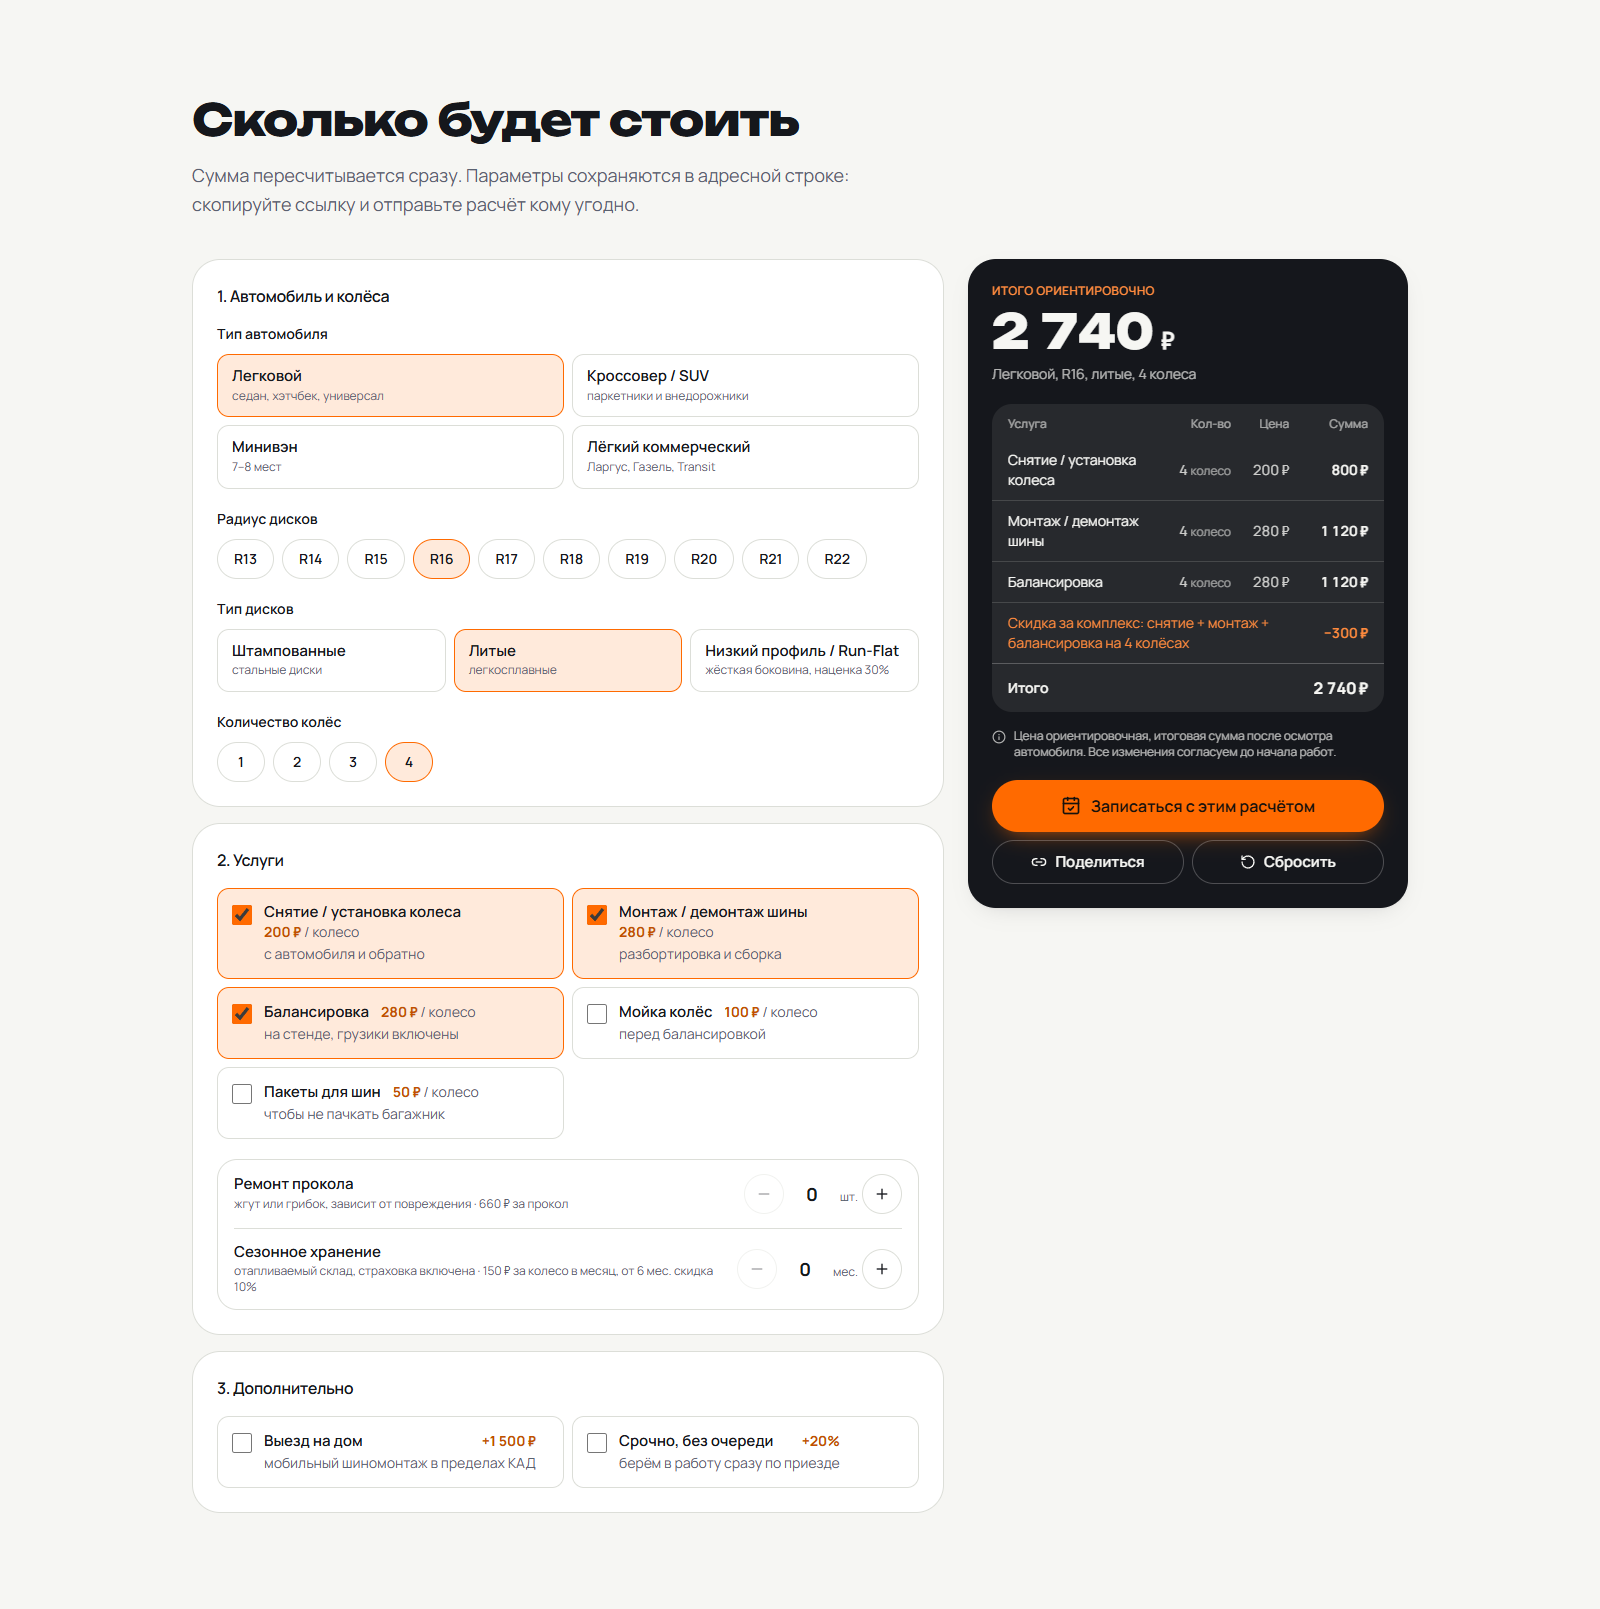
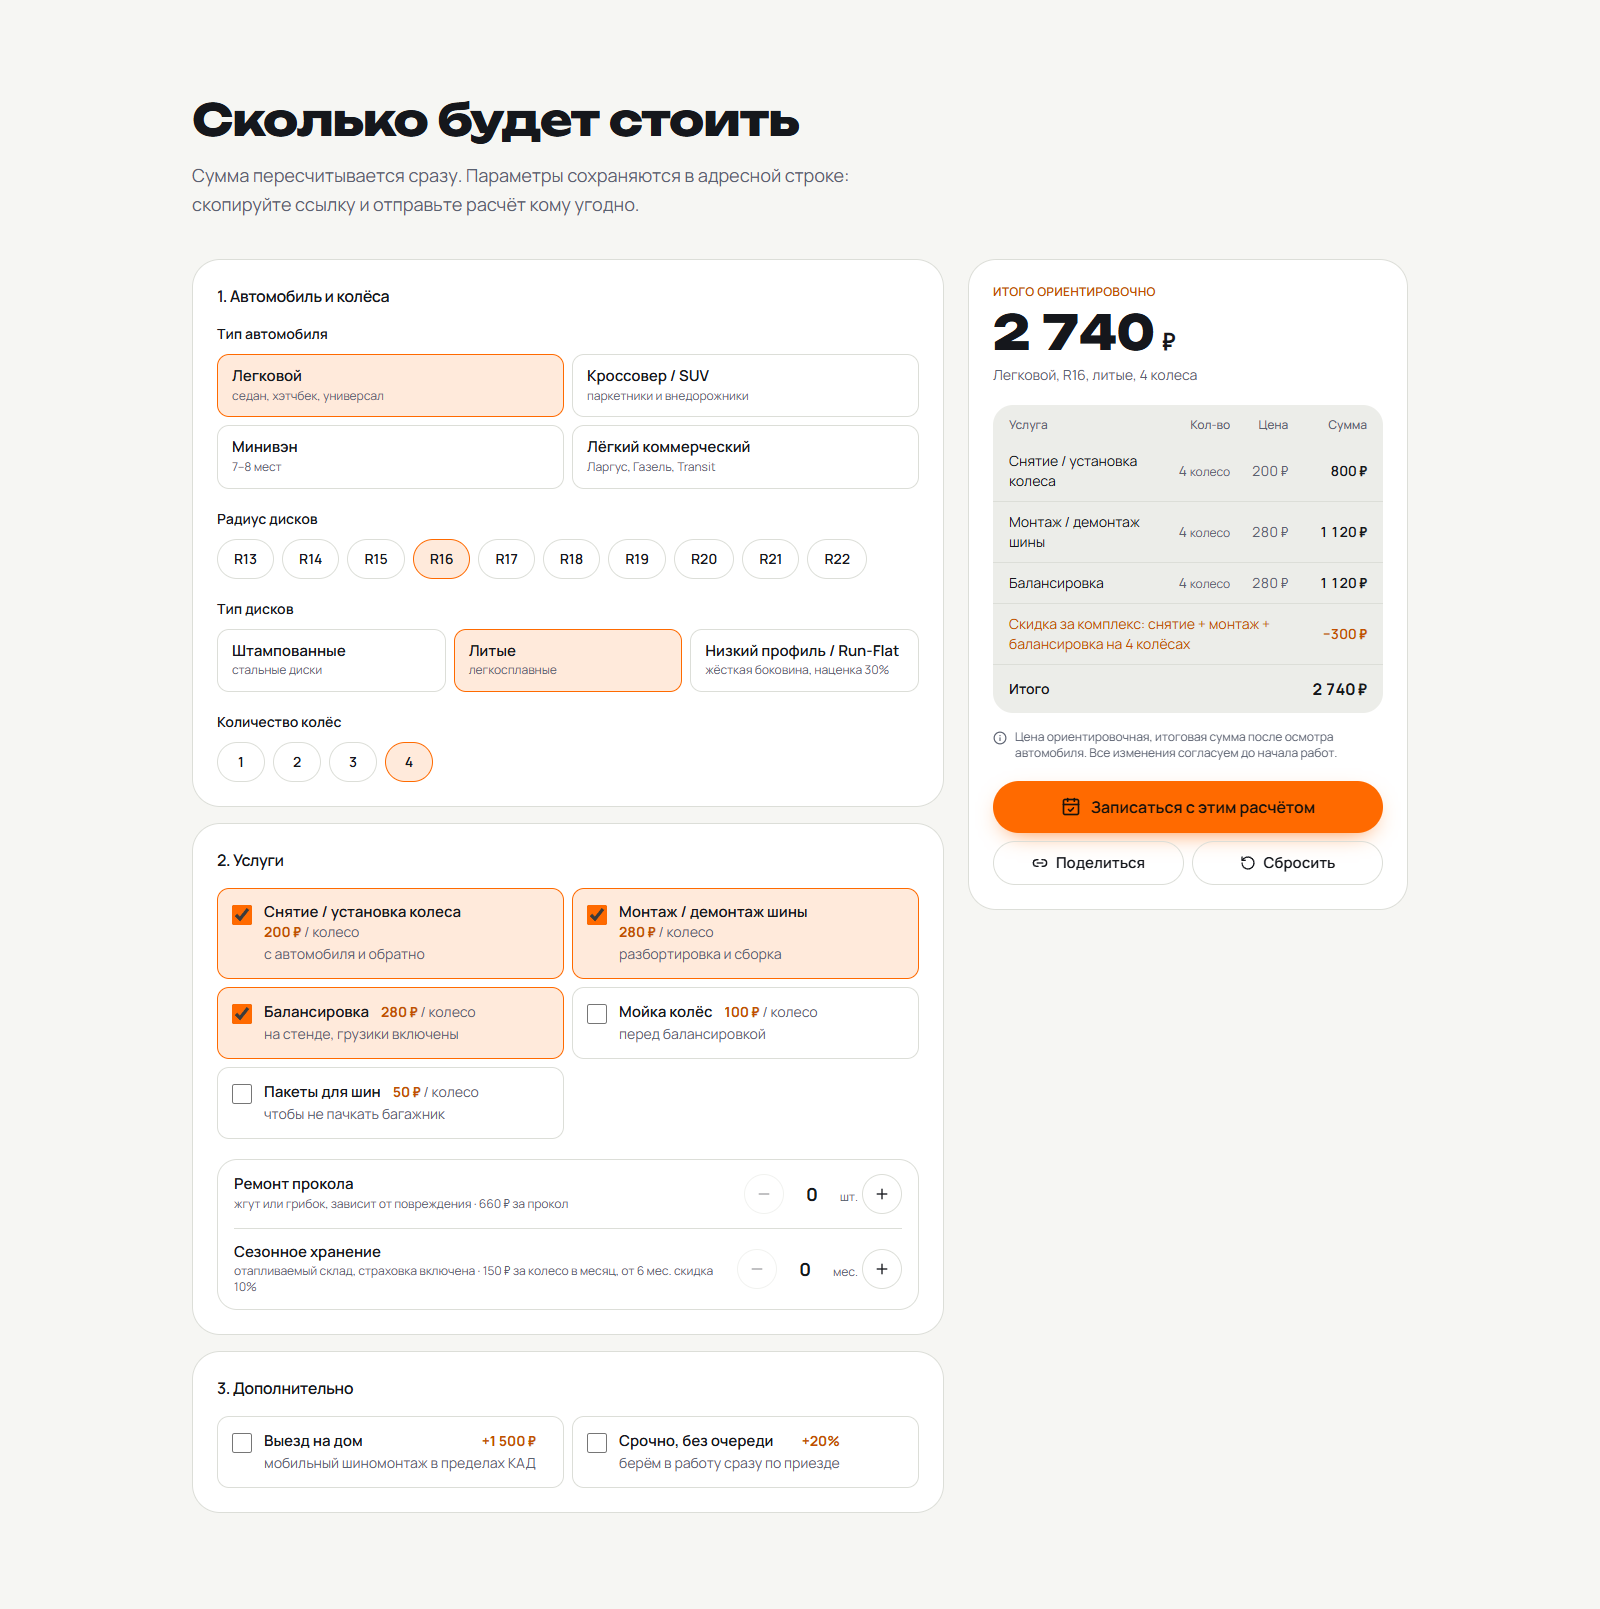
design: вернуть панелям обычный фон карточек
Инверсия цветов не понравилась ни в каком виде. Итог калькулятора,
карточка призыва и блок цены на странице услуги теперь используют
тот же фон и рамку, что остальные блоки страницы. Выделяют их размер
суммы и оранжевая кнопка.

Токены emphasis удалены, подписи вернулись на accent-text, контраст
остаётся 4.76:1 в светлой теме и 7.5:1 в тёмной.

Changed region(s): [[0.5938, 0.1554, 0.9062, 0.5904]]

diff --git a/src/components/calculator/calculator-summary.tsx b/src/components/calculator/calculator-summary.tsx
@@ -16,6 +16,10 @@ interface CalculatorSummaryProps {
   copied: boolean;
 }
 
+/**
+ * Панель итога. Фон и рамка такие же, как у остальных блоков страницы:
+ * выделяют её размер суммы и оранжевая кнопка, а не инверсия цветов.
+ */
 export function CalculatorSummary({
   input,
   result,
@@ -28,10 +32,10 @@ export function CalculatorSummary({
 
   return (
     <aside
-      className="flex flex-col rounded-3xl bg-emphasis p-6 text-emphasis-fg shadow-card lg:sticky lg:top-24"
+      className="flex flex-col rounded-3xl border border-border bg-surface p-6 lg:sticky lg:top-24"
       aria-labelledby="summary-title"
     >
-      <p className="text-xs font-semibold tracking-wide text-emphasis-accent uppercase">
+      <p className="text-xs font-semibold tracking-wide text-accent-text uppercase">
         Итого ориентировочно
       </p>
       <p className="mt-2 flex items-baseline gap-2">
@@ -41,13 +45,13 @@ export function CalculatorSummary({
         />
         <span className="font-heading text-2xl font-bold">₽</span>
       </p>
-      <p className="mt-2 text-sm opacity-70" id="summary-title">
+      <p className="mt-2 text-sm text-muted" id="summary-title">
         {describeInput(input)}
       </p>
 
-      <div className="mt-5 overflow-hidden rounded-2xl bg-emphasis-fg/8">
+      <div className="mt-5 overflow-hidden rounded-2xl bg-surface-2">
         {empty ? (
-          <p className="p-4 text-sm opacity-70">
+          <p className="p-4 text-sm text-muted">
             Выберите хотя бы одну услугу, и здесь появится детализация.
           </p>
         ) : (
@@ -56,7 +60,7 @@ export function CalculatorSummary({
               Детализация расчёта: услуга, количество, цена, сумма
             </caption>
             <thead>
-              <tr className="text-left text-xs opacity-60">
+              <tr className="text-left text-xs text-muted">
                 <th scope="col" className="px-4 pt-3 pb-2 font-medium">
                   Услуга
                 </th>
@@ -74,14 +78,14 @@ export function CalculatorSummary({
                 </th>
               </tr>
             </thead>
-            <tbody className="divide-y divide-emphasis-fg/15">
+            <tbody className="divide-y divide-border">
               {result.lines.map((line) => (
                 <tr key={line.id}>
                   <td className="px-4 py-2.5">{line.label}</td>
-                  <td className="tabular px-2 py-2.5 text-right whitespace-nowrap opacity-80">
-                    {line.qty} <span className="text-xs opacity-70">{line.unit}</span>
+                  <td className="tabular px-2 py-2.5 text-right whitespace-nowrap text-muted">
+                    {line.qty} <span className="text-xs">{line.unit}</span>
                   </td>
-                  <td className="tabular hidden px-2 py-2.5 text-right whitespace-nowrap opacity-80 sm:table-cell">
+                  <td className="tabular hidden px-2 py-2.5 text-right whitespace-nowrap text-muted sm:table-cell">
                     {formatPrice(line.unitPrice)}
                   </td>
                   <td className="tabular px-4 py-2.5 text-right font-semibold whitespace-nowrap">
@@ -90,7 +94,7 @@ export function CalculatorSummary({
                 </tr>
               ))}
               {result.discounts.map((d) => (
-                <tr key={d.id} className="text-emphasis-accent">
+                <tr key={d.id} className="text-accent-text">
                   <td className="px-4 py-2.5" colSpan={3}>
                     {d.label}
                   </td>
@@ -111,7 +115,7 @@ export function CalculatorSummary({
               )}
             </tbody>
             <tfoot>
-              <tr className="border-t border-emphasis-fg/25">
+              <tr className="border-t border-border">
                 <th scope="row" className="px-4 py-3 text-left font-semibold" colSpan={3}>
                   Итого
                 </th>
@@ -124,7 +128,7 @@ export function CalculatorSummary({
         )}
       </div>
 
-      <p className="mt-4 flex items-start gap-2 text-xs opacity-70">
+      <p className="mt-4 flex items-start gap-2 text-xs text-muted">
         <Info className="mt-0.5 size-3.5 shrink-0" aria-hidden="true" />
         Цена ориентировочная, итоговая сумма после осмотра автомобиля. Все изменения согласуем до
         начала работ.
@@ -136,12 +140,7 @@ export function CalculatorSummary({
           Записаться с этим расчётом
         </Button>
         <div className="grid grid-cols-2 gap-2">
-          <Button
-            variant="outline"
-            onClick={onShare}
-            className="border-emphasis-fg/25 text-emphasis-fg hover:border-emphasis-fg/50 hover:bg-emphasis-fg/8"
-            aria-live="polite"
-          >
+          <Button variant="outline" onClick={onShare} aria-live="polite">
             {copied ? (
               <Check className="size-4" aria-hidden="true" />
             ) : (
@@ -149,11 +148,7 @@ export function CalculatorSummary({
             )}
             {copied ? "Скопировано" : "Поделиться"}
           </Button>
-          <Button
-            variant="outline"
-            onClick={onReset}
-            className="border-emphasis-fg/25 text-emphasis-fg hover:border-emphasis-fg/50 hover:bg-emphasis-fg/8"
-          >
+          <Button variant="outline" onClick={onReset}>
             <RotateCcw className="size-4" aria-hidden="true" />
             Сбросить
           </Button>

diff --git a/src/app/(site)/services/[slug]/page.tsx b/src/app/(site)/services/[slug]/page.tsx
@@ -130,35 +130,30 @@ export default async function ServicePage({ params }: PageProps) {
           </div>
 
           <aside className="lg:sticky lg:top-24 lg:self-start">
-            <div className="rounded-3xl bg-emphasis p-6 text-emphasis-fg shadow-card">
-              <p className="text-xs font-semibold tracking-wide text-emphasis-accent uppercase">
+            <div className="rounded-3xl border border-border bg-surface p-6">
+              <p className="text-xs font-semibold tracking-wide text-accent-text uppercase">
                 Стоимость
               </p>
               <p className="mt-2 flex items-baseline gap-2">
-                <span className="text-sm opacity-70">от</span>
+                <span className="text-sm text-muted">от</span>
                 <span className="font-heading text-4xl font-extrabold">
                   {formatPrice(service.priceFrom)}
                 </span>
               </p>
-              <p className="text-sm opacity-70">{service.unit}, легковой автомобиль R13–R15</p>
+              <p className="text-sm text-muted">{service.unit}, легковой автомобиль R13–R15</p>
               <p className="mt-4 flex items-center gap-2 text-sm">
-                <Clock className="size-4 opacity-70" aria-hidden="true" />
+                <Clock className="size-4 text-muted" aria-hidden="true" />
                 {service.duration}
               </p>
               <div className="mt-6 flex flex-col gap-2">
                 <ButtonLink href={calculatorHref} size="lg" className="w-full">
                   Рассчитать под мою машину
                 </ButtonLink>
-                <ButtonLink
-                  href="/#booking"
-                  size="lg"
-                  variant="outline"
-                  className="w-full border-emphasis-fg/25 text-emphasis-fg hover:border-emphasis-fg/50 hover:bg-emphasis-fg/8"
-                >
+                <ButtonLink href="/#booking" size="lg" variant="outline" className="w-full">
                   Записаться
                 </ButtonLink>
               </div>
-              <p className="mt-4 text-xs opacity-60">
+              <p className="mt-4 text-xs text-muted">
                 Цена ориентировочная, итог после осмотра автомобиля.
               </p>
             </div>

diff --git a/src/app/globals.css b/src/app/globals.css
@@ -25,12 +25,6 @@
   --color-success: #1f9d55;
   --color-danger: #d93025;
 
-  /* Панель-акцент: итог калькулятора и карточка призыва. Всегда вывернута
-     относительно страницы, поэтому цвета заданы отдельной парой токенов. */
-  --color-emphasis: var(--emphasis);
-  --color-emphasis-fg: var(--emphasis-fg);
-  --color-emphasis-accent: var(--emphasis-accent);
-
   --radius-2xl: 1.25rem;
   --radius-3xl: 1.75rem;
 
@@ -80,10 +74,6 @@
   --surface-2: #ecede9;
   --border: #dcded8;
   --accent-text: #c24f00;
-  /* Светлая страница: панель тёмная */
-  --emphasis: #15171c;
-  --emphasis-fg: #f6f6f3;
-  --emphasis-accent: #ff8a3d;
   color-scheme: light;
 }
 
@@ -95,11 +85,6 @@
   --surface-2: #1d2129;
   --border: #2a2f39;
   --accent-text: #ff8a3d;
-  /* Тёмная страница: панель светлая, но приглушённая. Чистый #f1f2f4 на таком
-     фоне работает как лампа в лицо, поэтому берём серый на треть темнее. */
-  --emphasis: #d4d8de;
-  --emphasis-fg: #14161b;
-  --emphasis-accent: #9c3d00;
   color-scheme: dark;
 }
 

diff --git a/src/components/sections/services.tsx b/src/components/sections/services.tsx
@@ -58,13 +58,13 @@ export function Services() {
           <Reveal as="li" delay={360} className="lg:col-span-2">
             <Link
               href="/#calculator"
-              className="flex h-full min-h-56 flex-col justify-center rounded-3xl bg-emphasis p-6 text-emphasis-fg transition-all duration-300 hover:-translate-y-0.5 hover:shadow-glow sm:flex-row sm:items-center sm:justify-between sm:gap-8"
+              className="flex h-full min-h-56 flex-col justify-center rounded-3xl border border-border bg-surface p-6 transition-all duration-300 hover:-translate-y-0.5 hover:border-accent/60 hover:shadow-card sm:flex-row sm:items-center sm:justify-between sm:gap-8"
             >
               <div className="max-w-md">
                 <h3 className="text-2xl leading-tight font-bold">
                   Посчитайте точную стоимость под свою машину
                 </h3>
-                <p className="mt-2 text-sm opacity-70">
+                <p className="mt-2 text-sm text-muted">
                   Радиус, тип дисков, количество колёс и допуслуги. Тридцать секунд, без звонка.
                 </p>
               </div>

diff --git a/src/components/calculator/lazy-calculator.tsx b/src/components/calculator/lazy-calculator.tsx
@@ -30,7 +30,7 @@ export function CalculatorSkeleton() {
           />
         ))}
       </div>
-      <div className="h-[520px] animate-pulse-soft rounded-3xl bg-emphasis/90" />
+      <div className="h-[520px] animate-pulse-soft rounded-3xl border border-border bg-surface" />
     </div>
   );
 }

diff --git a/README.md b/README.md
@@ -109,10 +109,10 @@
 
 ### Lighthouse (production build, Lighthouse 13)
 
-| Профиль            | Performance | Accessibility | Best Practices | SEO |
-| ------------------ | ----------: | ------------: | -------------: | --: |
-| Mobile (3 прогона) |       92–94 |           100 |            100 | 100 |
-| Desktop            |         100 |           100 |            100 | 100 |
+| Профиль             | Performance | Accessibility | Best Practices | SEO |
+| ------------------- | ----------: | ------------: | -------------: | --: |
+| Mobile (6 прогонов) |       90–94 |           100 |            100 | 100 |
+| Desktop             |         100 |           100 |            100 | 100 |
 
 Что для этого сделано: калькулятор и форма записи грузятся отдельными чанками при приближении
 к viewport (или сразу по якорю/параметрам), карта за «фасадом», знак `₽` берётся из системного
